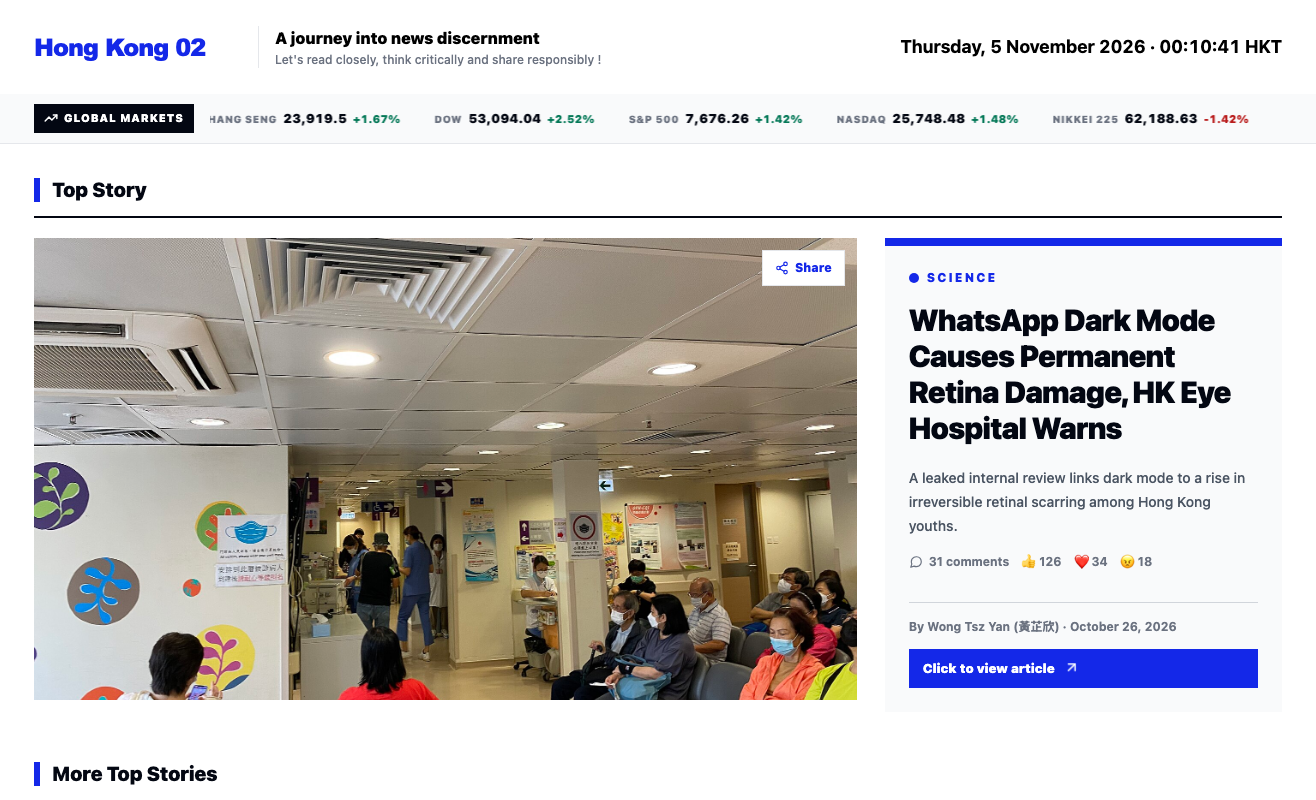
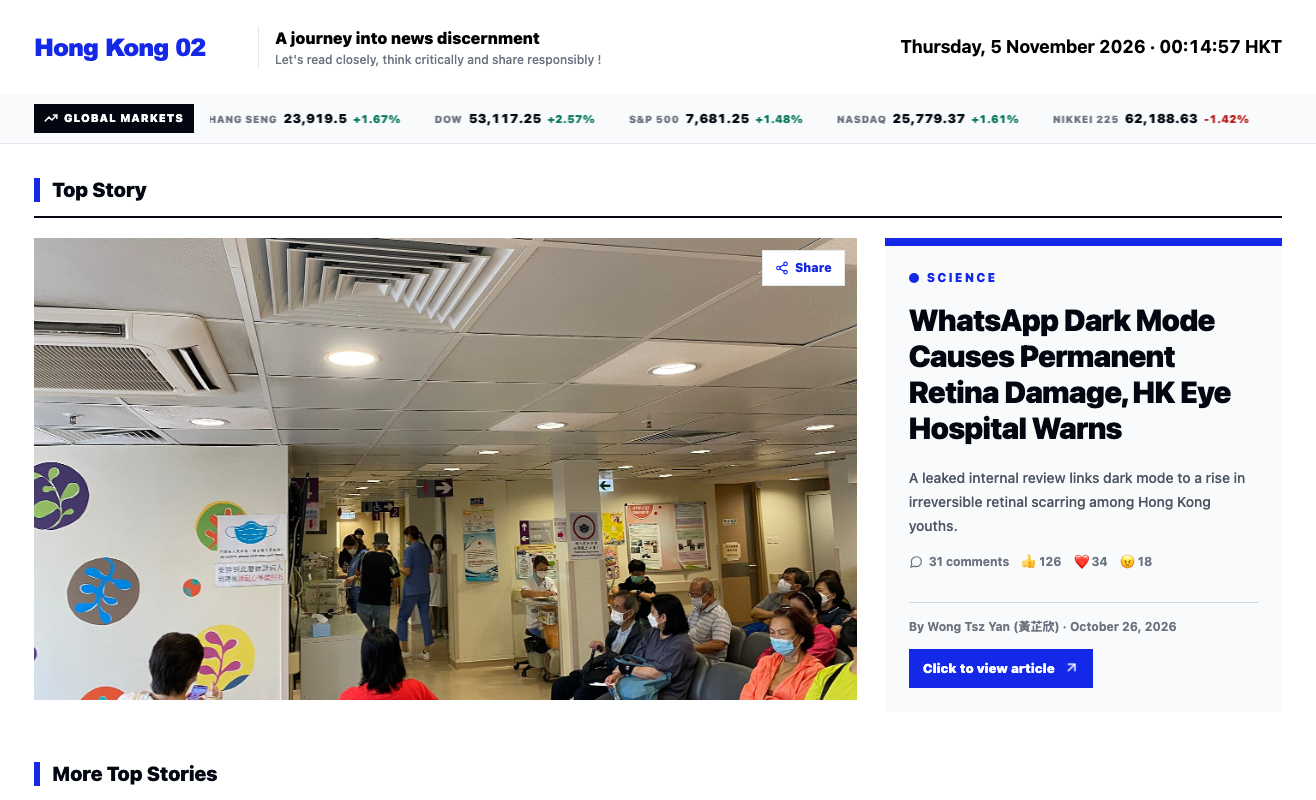
Fit top-story CTA to its text and keep arrow motion only on top story

diff --git a/public/css/hk02.css b/public/css/hk02.css
@@ -71,7 +71,8 @@ body {
 .story-foot { margin-top: 18px; padding-top: 16px; border-top: 1px solid #e5e7eb; display: flex; align-items: center; justify-content: space-between; gap: 12px; }
 .story-new { background: var(--brand); color: #fff; font-size: 12px; font-weight: 900; text-transform: uppercase; letter-spacing: 0.08em; padding: 4px 8px; }
 .story-cta { display: inline-flex; align-items: center; gap: 6px; background: var(--brand); color: #fff; font-size: 13px; font-weight: 900; padding: 6px 10px; }
-.story-arrow { animation: story-arrow-nudge 1.1s ease-in-out infinite; }
+.story-arrow { display: inline-block; }
+.top-cta .story-arrow { animation: story-arrow-nudge 1.1s ease-in-out infinite; }
 @keyframes story-arrow-nudge { 0%, 100% { transform: translate(0, 0); } 50% { transform: translate(3px, -3px); } }
 .story-share { position: absolute; right: 12px; top: 12px; z-index: 10; display: inline-flex; align-items: center; gap: 6px; border: 1px solid #e5e7eb; background: #fff; color: var(--brand); font-size: 12px; font-weight: 900; padding: 8px 12px; cursor: pointer; font-family: inherit; transition: background 0.15s ease, border-color 0.15s ease; }
 .story-share:hover { border-color: var(--brand); background: #eef3ff; }
@@ -272,7 +273,7 @@ body {
 }
 
 /* Top-story CTA */
-.top-cta { display: inline-flex; align-items: center; gap: 8px; margin-top: 14px; background: var(--brand); color: #fff; font-size: 13px; font-weight: 900; padding: 10px 14px; text-decoration: none; transition: background 0.15s ease; }
+.top-cta { display: inline-flex; align-self: flex-start; width: fit-content; align-items: center; gap: 8px; margin-top: 14px; background: var(--brand); color: #fff; font-size: 13px; font-weight: 900; padding: 10px 14px; text-decoration: none; transition: background 0.15s ease; }
 .top-cta:hover { background: var(--brand-dark); }
 
 /* Sound-wave "New !" badge */
